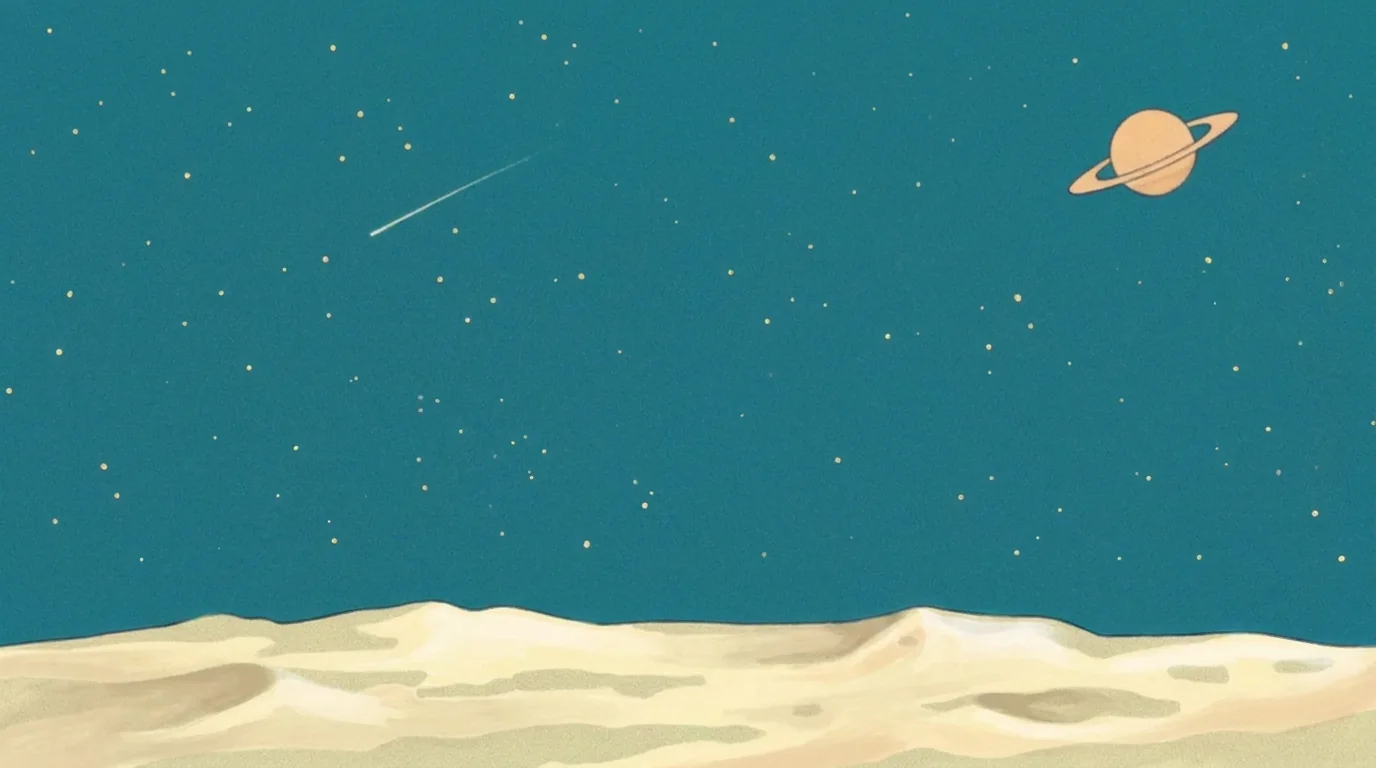
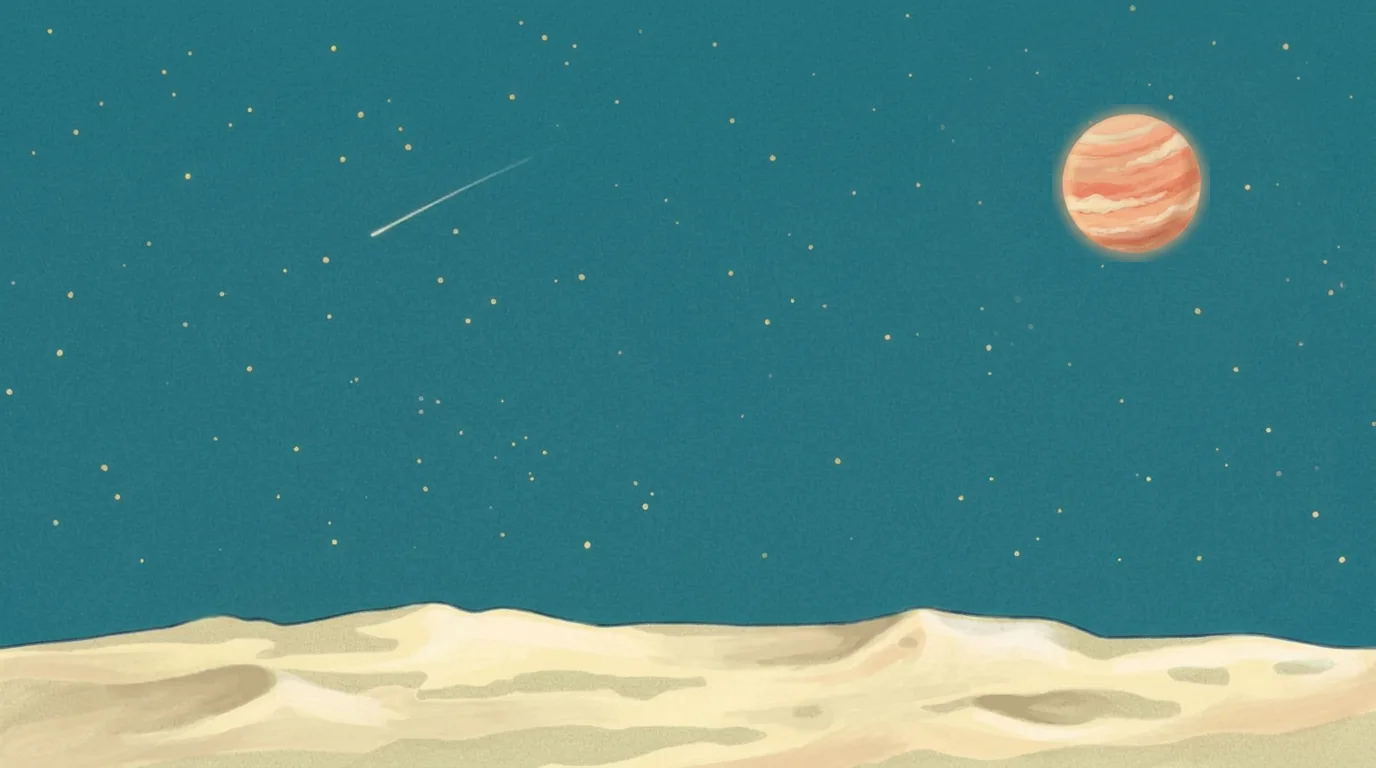
feat: (1)홈 토성을 배경 청록 하늘과 어울리는 복숭아빛 가스행성으로 교체(AI 포토에딧+로컬 62% 축소 합성, 고리 잔상 제거) — 실측 중심 1131,181·본체 반경 71로 발광 링 정합, 고리 도는 반짝임은 제거하고 클릭 시 링이 환하게 터지는 연출로 대체, (2)홈 카드 색을 이전 크림 팔레트로 복원, (3)카드 부채꼴을 '항상 18% 겹침' 기준으로 재설계 — 카드 수와 무관하게 겹치면서 화면 폭이 허락하는 최대 크기로 자동 확대(홈 5장 기준 폭 290px)

diff --git a/index.html b/index.html
@@ -24,13 +24,6 @@
       background: linear-gradient(180deg, rgba(12, 22, 66, .62) 0%, rgba(12, 22, 66, .42) 42%, rgba(12, 22, 66, 0) 72%);
       mix-blend-mode: multiply;
     }
-    /* 토성 고리를 한 바퀴 도는 반짝임(행성 뒤로 지나갈 땐 사라짐) */
-    .gm-spark {
-      position: absolute; left: 0; top: 0; z-index: 2; pointer-events: none;
-      border-radius: 50%; mix-blend-mode: screen; filter: blur(.5px);
-      background: radial-gradient(circle, rgba(255, 252, 235, 1) 0%, rgba(255, 228, 165, .85) 30%, rgba(255, 212, 140, 0) 70%);
-      transition: opacity .25s;
-    }
     /* 전경 오브젝트(로켓): 고브럽이 뒤로 지나가면 가려짐. 누르면 발사! */
     .gm-obj {
       position: absolute; left: 0; top: 0; z-index: 12; pointer-events: auto; cursor: pointer;
@@ -52,8 +45,12 @@
       50% { box-shadow: 0 0 20px 5px rgba(255, 222, 150, .9), 0 0 46px 16px rgba(255, 222, 150, .38); }
     }
     .gm-satring.hot { animation-duration: 1.1s; }
-    .gm-spark.burst { animation: gm-burst 1.4s ease-out; }
-    @keyframes gm-burst { 0% { filter: brightness(1) blur(.5px); } 30% { filter: brightness(2.4) blur(.5px); } 100% { filter: brightness(1) blur(.5px); } }
+    .gm-satring.burst { animation: gm-satburst 1.2s ease-out; }
+    @keyframes gm-satburst {
+      0% { box-shadow: 0 0 12px 3px rgba(255, 222, 150, .7); }
+      30% { box-shadow: 0 0 40px 14px rgba(255, 235, 190, 1), 0 0 80px 30px rgba(255, 222, 150, .55); }
+      100% { box-shadow: 0 0 12px 3px rgba(255, 222, 150, .5); }
+    }
     /* 로켓 분사 불꽃 */
     .gm-flame { position: absolute; left: 0; top: 0; z-index: 11; pointer-events: none; display: none; }
     .gm-flame b {
@@ -197,7 +194,7 @@
     /* 고브럽 */
     .gm-goblub { position: absolute; left: 0; top: 0; z-index: 10; width: 170px; cursor: pointer; will-change: transform; }
     /* 첫 프레임에서 위치 잡기 전까지 숨김(로드 직후 왼쪽 위에 깜빡 보이는 것 방지) */
-    .gm-goblub, .gm-obj, .gm-shad, .gm-spark, .gm-cabin, .gm-glass, .gm-satring { visibility: hidden; }
+    .gm-goblub, .gm-obj, .gm-shad, .gm-cabin, .gm-glass, .gm-satring { visibility: hidden; }
     .gm-goblub .bodywrap { position: relative; width: 100%; will-change: transform; }
     .gm-goblub img { width: 100%; height: auto; display: block; user-select: none; -webkit-user-drag: none;
       filter: drop-shadow(0 8px 9px rgba(0, 22, 32, .22)); transition: filter .18s; }
@@ -236,28 +233,22 @@
       position: absolute; left: 0; top: 0; opacity: 0; pointer-events: none;
       display: flex; flex-direction: column; align-items: center; justify-content: center; gap: 8px;
       width: 250px; height: 190px; border-radius: 18px; padding: 12px; box-sizing: border-box;
-      color: #fff; text-align: center; border: 3px solid rgba(255, 255, 255, .22);
-      box-shadow: 0 16px 32px rgba(0, 12, 32, .5), inset 0 2px 0 rgba(255,255,255,.18);
+      background: linear-gradient(180deg, #f9f0d4, #efe3bd);
+      color: #235a6b; text-align: center; border: 3px solid rgba(29, 90, 107, .25);
+      box-shadow: 0 16px 32px rgba(0, 22, 32, .48), inset 0 2px 0 rgba(255,255,255,.8);
       will-change: transform; transform-origin: center;
     }
-    /* 카드 팔레트 — Daring Indigo → Plum Perfect */
-    .gm-card:nth-child(5n+1) { background: linear-gradient(180deg, #4b5d8f, #374874); }
-    .gm-card:nth-child(5n+2) { background: linear-gradient(180deg, #5768ab, #445397); }
-    .gm-card:nth-child(5n+3) { background: linear-gradient(180deg, #6f7ec2, #5868ae); }
-    .gm-card:nth-child(5n+4) { background: linear-gradient(180deg, #b78bc3, #a475b1); }
-    .gm-card:nth-child(5n+5) { background: linear-gradient(180deg, #c7a1d5, #b48ac2); }
-    body.home-moon .gm-card, body.home-moon .gm-card:hover { color: #fff; }
-    .gm-card:hover { border-color: rgba(255, 255, 255, .5);
-      box-shadow: 0 22px 42px rgba(0, 12, 32, .6), inset 0 2px 0 rgba(255,255,255,.22); }
+    body.home-moon .gm-card, body.home-moon .gm-card:hover { color: #235a6b; }
+    .gm-card:hover { border-color: rgba(29, 90, 107, .55);
+      box-shadow: 0 22px 42px rgba(0, 22, 32, .58), inset 0 2px 0 rgba(255,255,255,.8); }
     .gm-card .ic {
       display: flex; align-items: center; justify-content: center;
       width: 76px; height: 76px; border-radius: 50%;
-      background: rgba(255, 255, 255, .92) !important;
-      box-shadow: inset 0 -4px 8px rgba(29, 40, 90, .16), inset 0 2px 3px rgba(255,255,255,.9);
+      box-shadow: inset 0 -4px 8px rgba(29, 90, 107, .14), inset 0 2px 3px rgba(255,255,255,.7);
       font-size: 2.3rem; line-height: 1;
     }
     .gm-card .tt { font-size: 1.56rem; line-height: 1.15; }
-    .gm-card .ds { font-size: .98rem; line-height: 1.35; color: #e4dff4; padding: 0 8px; word-break: keep-all; }
+    .gm-card .ds { font-size: .98rem; line-height: 1.35; color: #58818c; padding: 0 8px; word-break: keep-all; }
     @media (max-width: 700px) {
       .gm-card { gap: 7px; padding: 10px; }
       .gm-card .ic { width: 52px; height: 52px; font-size: 1.6rem; }
@@ -281,7 +272,6 @@
   </div>
 
   <div class="gm-tint"></div>
-  <div class="gm-spark" id="gm-spark"></div>
   <div class="gm-satring" id="gm-satring"></div>
   <div class="gm-sathot" id="gm-sathot" title=""></div>
   <div class="gm-satmenu" id="gm-satmenu">
@@ -359,7 +349,6 @@
     var hint = document.getElementById("gm-hint");
     var word = document.getElementById("gm-word");
     var cont = document.getElementById("gm-cards");
-    var spark = document.getElementById("gm-spark");
     var shad = document.getElementById("gm-shad");
     var obj = document.getElementById("gm-obj");
     var objshad = document.getElementById("gm-objshad");
@@ -403,7 +392,7 @@
     function isMobile() { return window.innerWidth < 700; } // 모바일: 중앙 고정, 걷기 없음
 
     // moon-5.webp(1376×768) 속 토성 중심(1151,150) — cover 배치를 화면 좌표로 환산
-    var SAT = { w: 1376, h: 768, x: 1151, y: 150, r: 78 };
+    var SAT = { w: 1376, h: 768, x: 1131, y: 181, r: 82 }; // 복숭아빛 가스행성(실측 중심·본체 반경 71)
     var vpBox = document.createElement("div");   // 배경(fixed inset:0)과 같은 박스 — 스크롤바 편차 제거
     vpBox.style.cssText = "position:fixed;inset:0;pointer-events:none;visibility:hidden";
     document.body.appendChild(vpBox);
@@ -444,12 +433,11 @@
         }
       } else {
         // 고양이 타로처럼: 세로형 카드가 아크 위에서 왼쪽→오른쪽 부채꼴로 촤라락
-        // 카드 수가 적을수록 크게 — 4장이면 널찍하게
-        var cw2 = Math.min(n <= 4 ? 300 : n <= 6 ? 230 : n <= 7 ? 200 : 162,
-                           W * (n <= 4 ? 0.23 : n <= 6 ? 0.18 : n <= 7 ? 0.16 : 0.128));
+        // 카드끼리 항상 약간(18%) 겹치도록 — 그 조건에서 화면 폭이 허락하는 최대 크기
+        var OV = 0.82;                                   // 이웃 카드 중심 간격 = 카드폭 × OV
+        var cw2 = Math.min(320, (W - 40) / (OV * (n - 1) + 1));
         var ch2 = Math.round(cw2 * 1.34);
-        // 부채 전체 폭 — 양끝 카드가 화면 밖으로 나가지 않게 클램프
-        var span = Math.min(W * (n >= 8 ? 0.9 : 0.8), 1250, W - cw2 - 36);
+        var span = cw2 * OV * (n - 1);                   // 부채 전체 폭(양끝 카드 중심 간)
         var cy = H * 0.40, curve = H * 0.16;   // 가운데가 높고 양끝이 내려오는 호
         for (var j = 0; j < n; j++) {
           var t = j / (n - 1) - 0.5;
@@ -664,21 +652,11 @@
 
       // 토성 고리를 도는 반짝임 + 광원 기준 그림자
       var sat = saturnPos();
-      var ss = sat.r / 78;
-      var th = now / 650; // 약 4초에 한 바퀴
-      var ca = Math.cos(-0.42), sa2 = Math.sin(-0.42); // 고리 기울기 -24°
-      var ex = 77 * ss * Math.cos(th), ey = 16 * ss * Math.sin(th);
-      var spx = sat.x + ex * ca - ey * sa2, spy = sat.y + ex * sa2 + ey * ca;
-      var behind = Math.sin(th) < 0 && Math.abs(ex) < 45 * ss; // 행성 뒤로 지나가는 구간
-      var sd = sat.r * 0.34;
-      spark.style.width = sd + "px"; spark.style.height = sd + "px";
-      spark.style.opacity = behind ? "0" : "1";
-      spark.style.transform = "translate(" + (spx - sd / 2) + "px," + (spy - sd / 2) + "px)";
       var hd = sat.r * 2.3; // 토성 호버 핫스팟
       sathot.style.width = hd + "px"; sathot.style.height = hd + "px";
       sathot.style.transform = "translate(" + (sat.x - hd / 2) + "px," + (sat.y - hd / 2) + "px)";
-      // 토성 본체 테두리 발광(실측 중심 1152,152 · 반경 42)
-      var ss2 = sat.r / 78, rw = 42 * 2 * ss2, rh = 42 * 2 * ss2;
+      // 행성 테두리 발광(본체 반경 70)
+      var ss2 = sat.r / 82, rw = 71 * 2 * ss2, rh = 71 * 2 * ss2;
       satring.style.width = rw + "px"; satring.style.height = rh + "px";
       satring.style.transform = "translate(" + (sat.x - rw / 2) + "px," + (sat.y - rh / 2) + "px)";
       // 토성 메뉴는 토성 바로 아래 오른쪽 정렬
@@ -892,9 +870,9 @@
       if (loggedIn) document.getElementById("gm-satlogin").innerHTML = "<span>👤</span>마이페이지";
     })();
     sathot.addEventListener("click", function () {
-      spark.classList.remove("burst");
-      void spark.offsetWidth; // 애니메이션 재시작
-      spark.classList.add("burst");
+      satring.classList.remove("burst");
+      void satring.offsetWidth; // 애니메이션 재시작
+      satring.classList.add("burst");
       if (satmenu.classList.contains("on")) satmenu.classList.remove("on");
       else {
         satmenu.classList.remove("on");
@@ -951,7 +929,6 @@
           obj.style.visibility = "visible";
           shad.style.visibility = "visible";
           objshad.style.visibility = "visible";
-          spark.style.visibility = "visible";
           satring.style.visibility = "visible";
           cabin.style.visibility = "visible";
           glass.style.visibility = "visible";

diff --git a/play/js/hub-fan.js b/play/js/hub-fan.js
@@ -22,7 +22,7 @@
   var IMG_FRONT = ROOT + "/design/img/home/gb-front.webp";
 
   document.body.classList.add("fanmode");
-  if (cards.length >= 8) document.body.classList.add("dense"); // 카드가 많으면 글자 축소
+  if ((window.innerWidth - 40) / (0.82 * (cards.length - 1) + 1) < 205) document.body.classList.add("dense"); // 카드가 작아지면 글자 축소
 
   // ===== 고브럽 스타일(홈과 동일 값) =====
   var css = document.createElement("style");
@@ -93,11 +93,11 @@ background:radial-gradient(ellipse at center,rgba(4,10,20,.68) 0%,rgba(4,10,20,.
   // ===== 카드 부채꼴(홈 지오메트리) =====
   function targets(n) {
     var W = window.innerWidth, H = window.innerHeight;
-    // 카드 수가 적을수록 크게
-    var cw = Math.min(n <= 4 ? 300 : n <= 6 ? 230 : n <= 7 ? 200 : 162,
-                      W * (n <= 4 ? 0.23 : n <= 6 ? 0.18 : n <= 7 ? 0.16 : 0.128));
+    // 카드끼리 항상 약간(18%) 겹치도록 — 그 조건에서 화면 폭이 허락하는 최대 크기
+    var OV = 0.82;
+    var cw = Math.min(320, (W - 40) / (OV * (n - 1) + 1));
     var ch = Math.round(cw * 1.34);
-    var span = Math.min(W * (n >= 8 ? 0.9 : 0.8), 1250, W - cw - 36);
+    var span = cw * OV * (n - 1);
     var cy = H * 0.40, curve = H * 0.16;
     var out = [];
     for (var j = 0; j < n; j++) {
